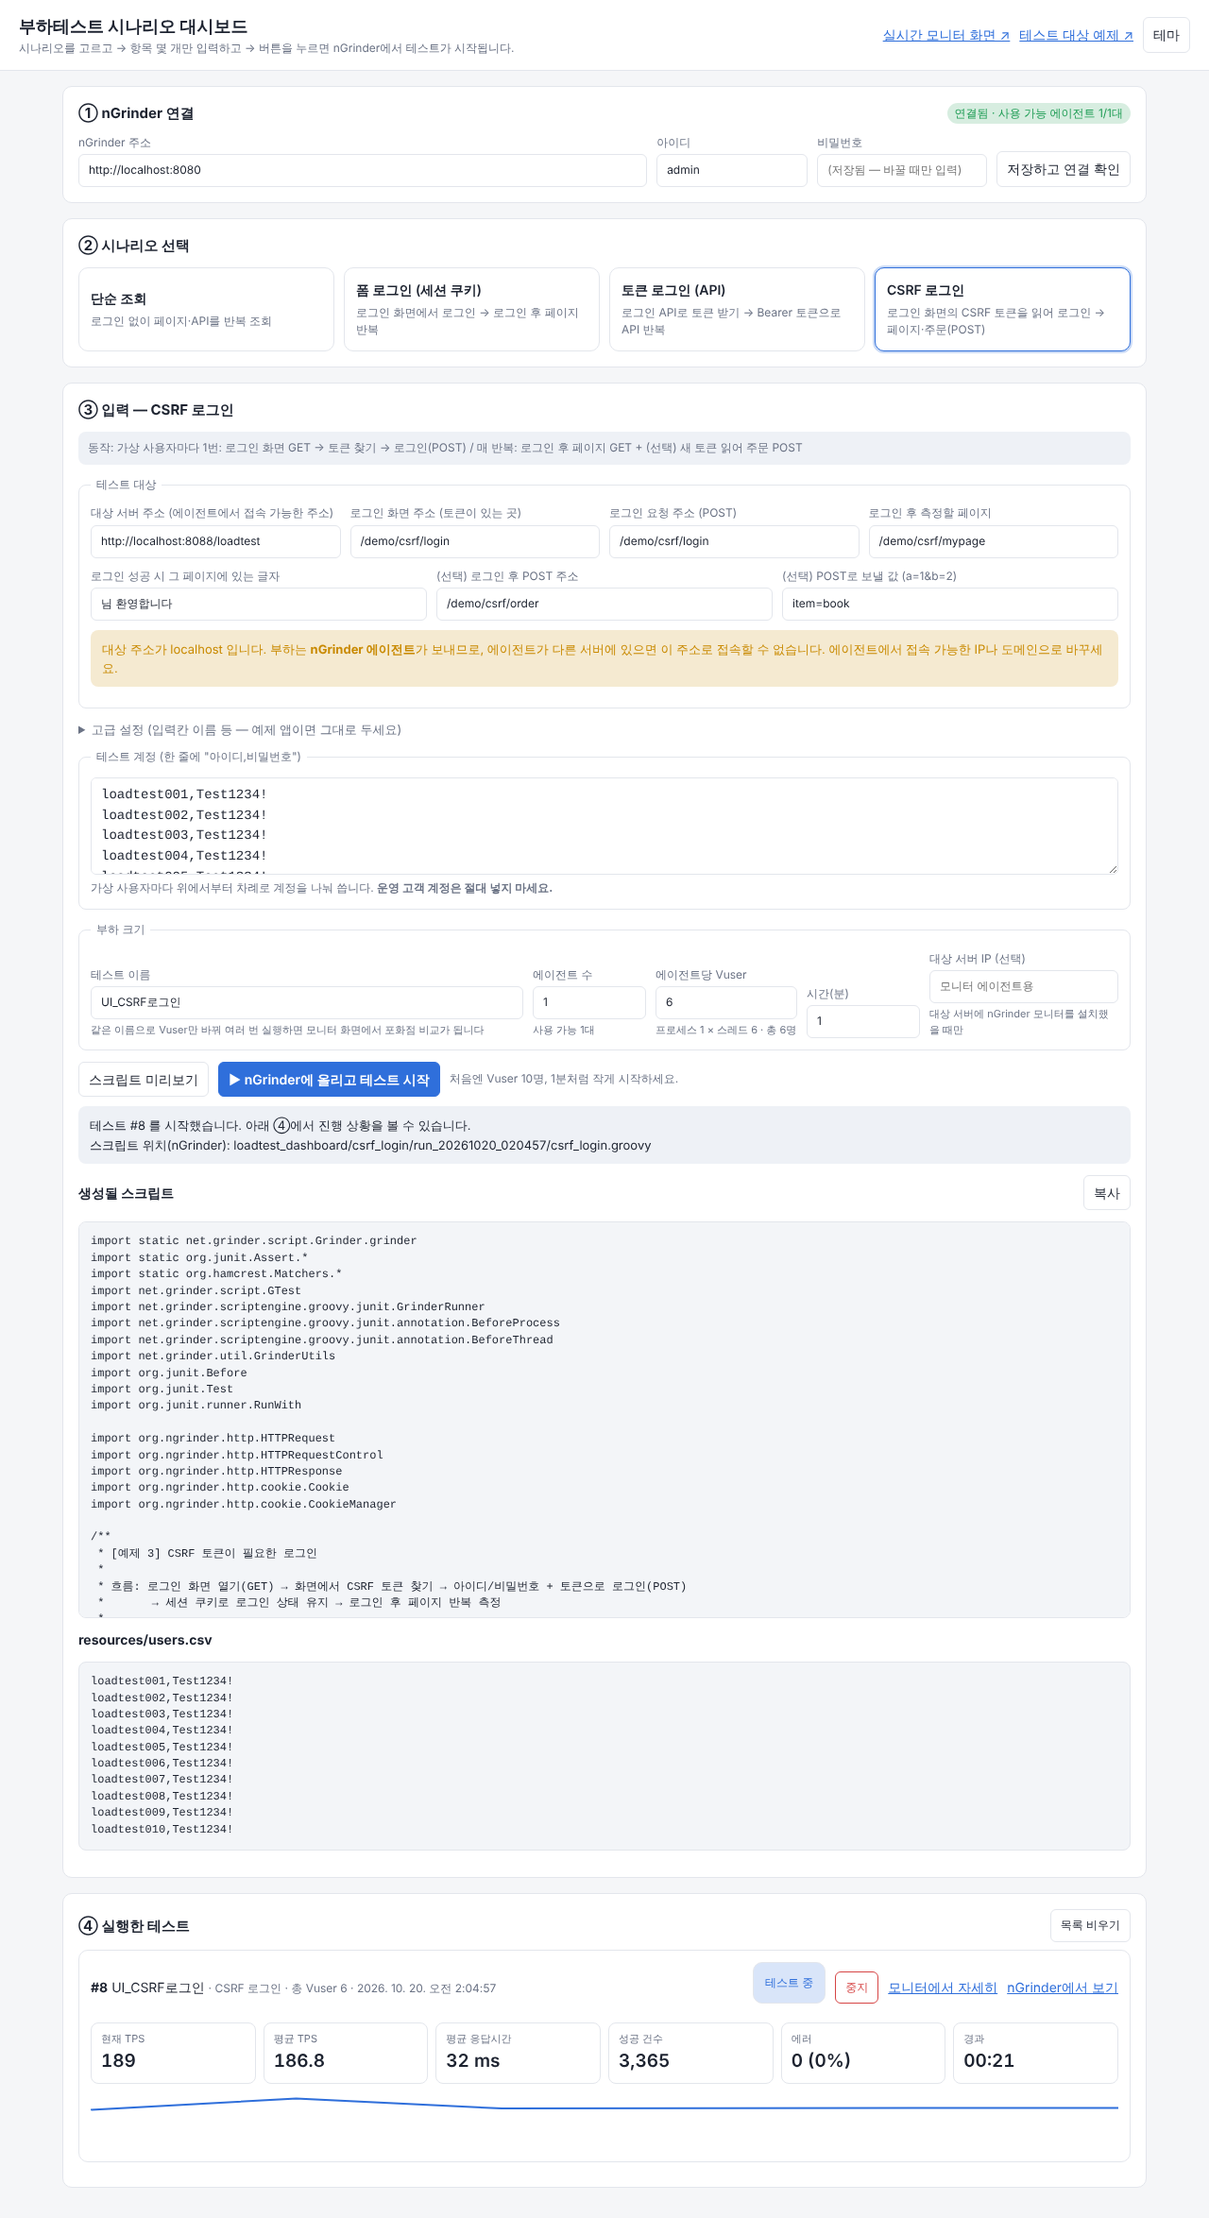
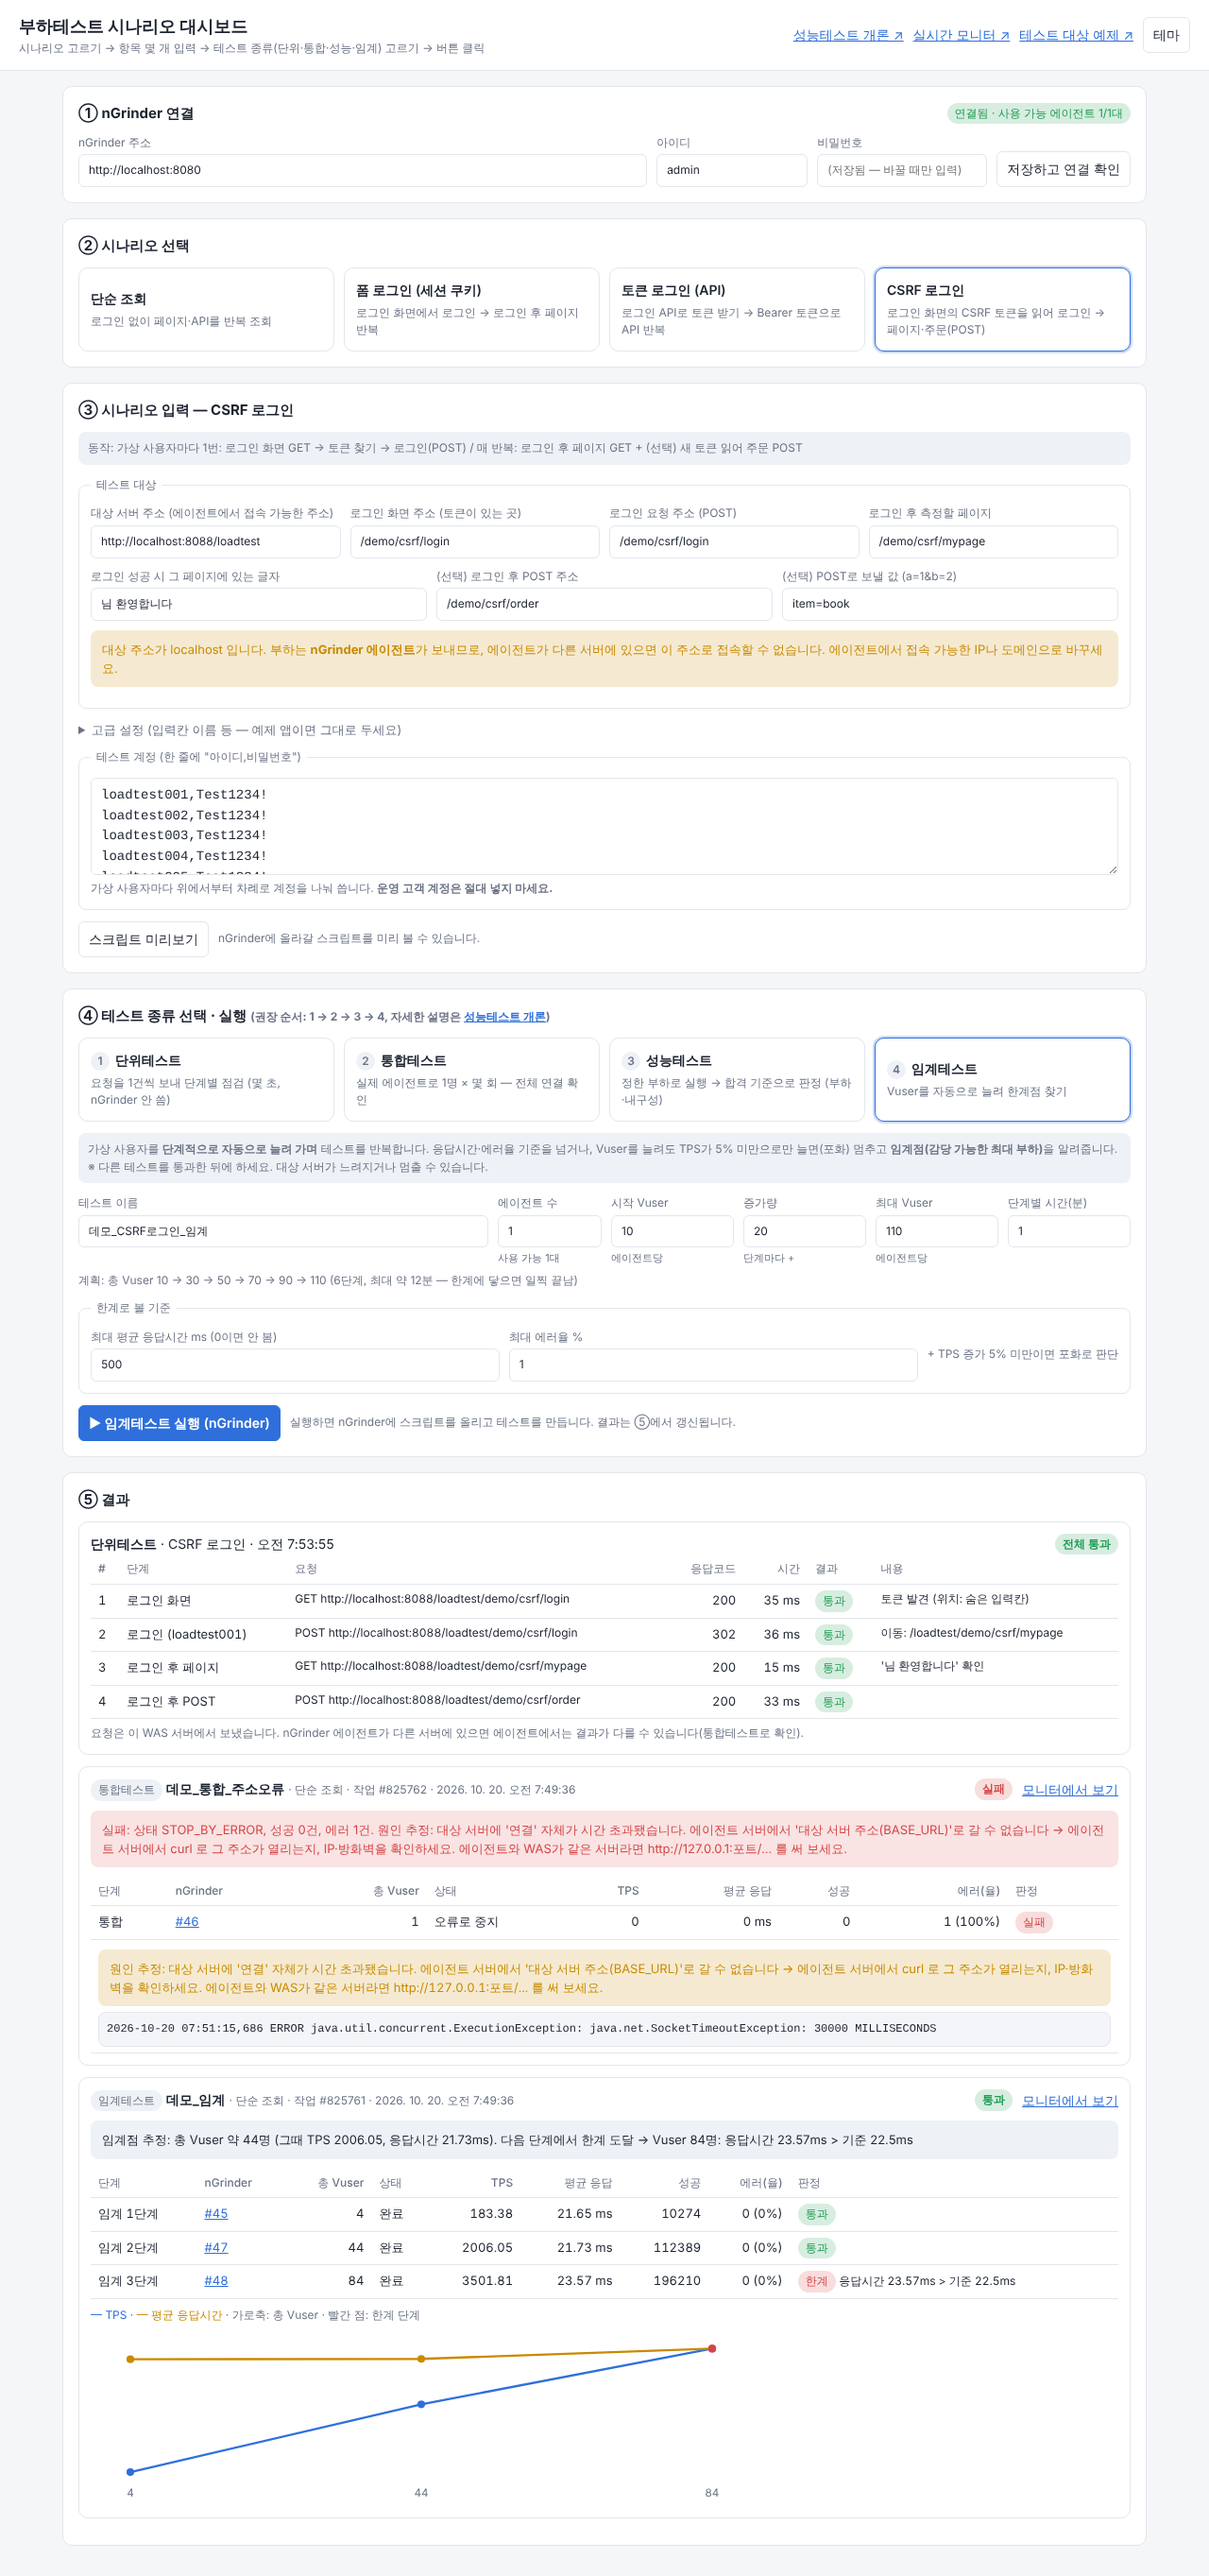
Docs: record verification of test types and update screenshots
Claude-Session: https://claude.ai/code/session_01UgLzq6fttFo9CnLV7jhRQf

diff --git a/loadtest-app/README.md b/loadtest-app/README.md
@@ -144,7 +144,20 @@ export DASHBOARD_PASSWORD=관리자비밀번호
 
 - 처음 실행 때 폼 로그인·CSRF 로그인이 **실제 에이전트에서만** 실패했습니다. 원인은 nGrinder의 `res.bodyText` 가 에이전트 PC 기본 문자셋으로
   한글을 읽어 "님 환영합니다" 비교가 깨진 것이었고, 스크립트를 고친 뒤 위처럼 통과했습니다 (`../ngrinder-scripts/README.md` 참고).
+### 테스트 종류 기능 검증 (실제 nGrinder 3.5.9-p1 + Tomcat 10.1)
+| 종류 | 시나리오 | 결과 |
+|---|---|---|
+| 단위 | 4개 시나리오 기본값 | 모두 통과 (단계별 응답코드·시간·확인 내용 표시) |
+| 단위 | 연결 불가 주소 / 틀린 비밀번호 / 틀린 CSRF 이름 | 3건 모두 실패로 잡고 원인 표시 |
+| 통합 | CSRF 로그인, 1명 × 3회 | 통과 (6건, 에러 0) |
+| 통합 | 연결 불가 주소 | 실패 + 에이전트 로그의 `SocketTimeoutException … InternalConnectChannel.onTimeout` 을 찾아 "에이전트 서버에서 대상 주소로 갈 수 없음" 원인 표시 |
+| 성능 | 단순 조회, Vuser 4, 1분, 기준 TPS≥50·응답≤500ms·에러≤1% | 합격 (TPS 183.0, 21.9ms, 에러 0) |
+| 임계 | 단순 조회, Vuser 4→24→44→64→84, 기준 응답≤100ms | 84명까지 한계 없음 → "임계점은 이보다 높음" 보고 (TPS 186→3,601) |
+| 임계 | 단순 조회, Vuser 4→44→84, 기준 응답≤22ms | 84명에서 응답 24.0ms로 한계 → 멈추고 "임계점 약 44명 (TPS 2,010)" 보고 |
+
 - 위 수치는 한 대의 작업용 가상머신에서 컨트롤러·에이전트·WAS를 함께 돌린 값이라 **성능 기준으로 쓰면 안 됩니다.** 동작 확인용입니다.
 - 검증하지 않은 것: 여러 대의 에이전트, 원격 서버 간 네트워크, Tomcat/WildFly 외 WAS, 대시보드 접근 제한(DASHBOARD_USER) 실제 브라우저 입력창.
 
 ![대시보드 화면](docs/dashboard.png)
+
+![성능테스트 개론 화면](docs/intro.png)
